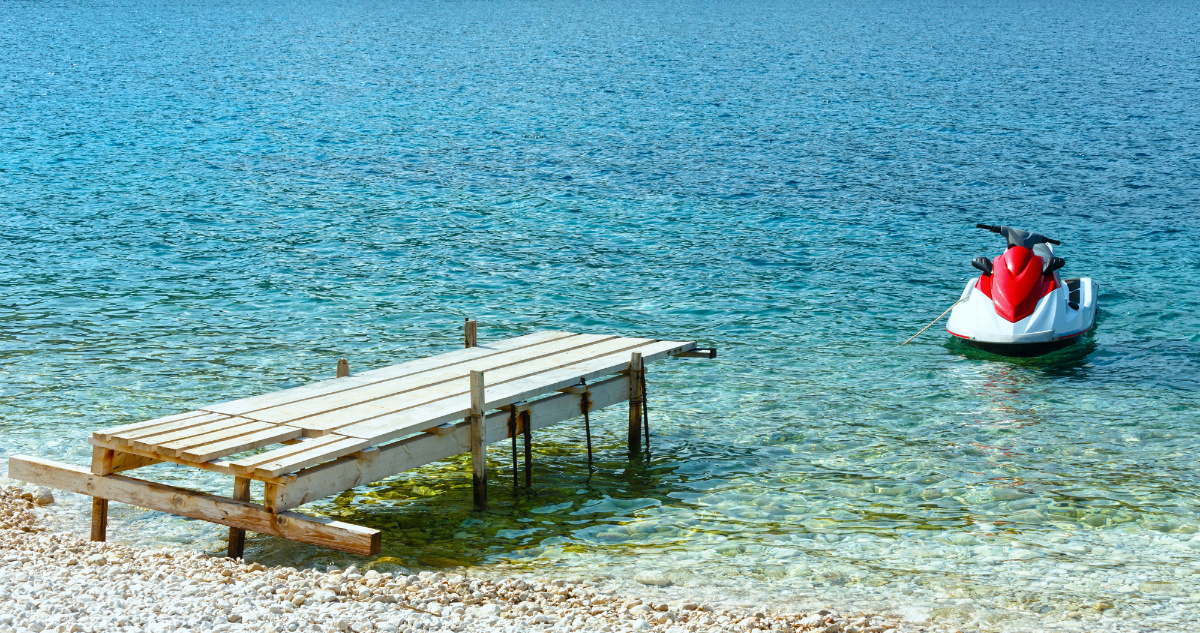
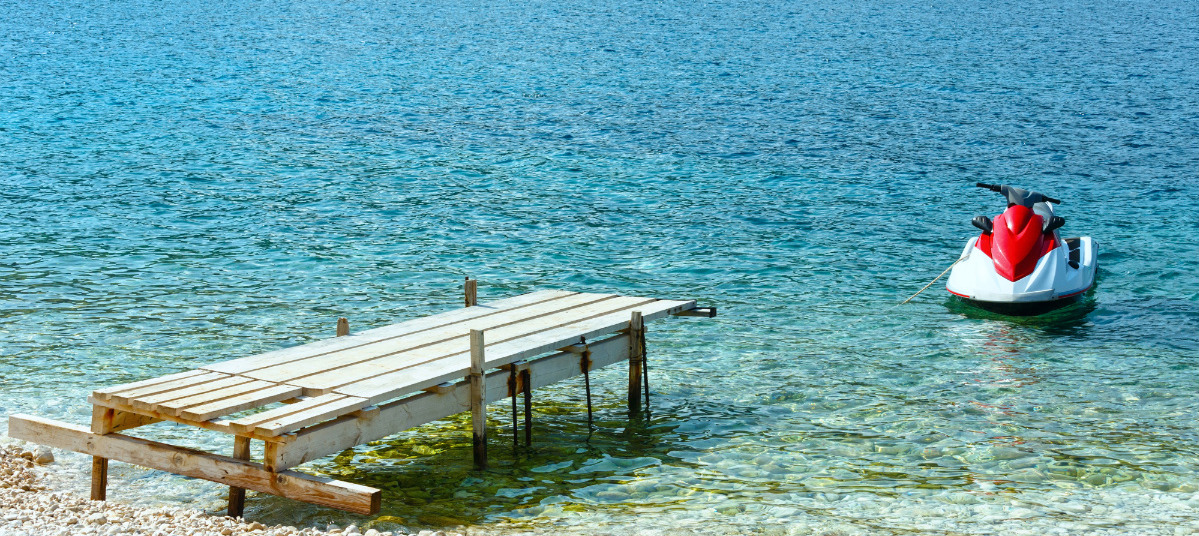
fix home page image in mobile view.

diff --git a/app/assets/stylesheets/responsive.scss b/app/assets/stylesheets/responsive.scss
@@ -2,6 +2,10 @@
   .home-header-text {
     font-size: 28px;
   }
+  .home_page_second_image_text {
+    font-size: 26px;
+    line-height: 25px;
+  }
 }
 
 @media only screen and (max-width: 700px) {
@@ -21,13 +25,21 @@
     }
   }
   .home-header-text-sm, .home_page_second_image_text {
-    font-size: 24px;
-    line-height: 25px;
+    font-size: 30px;
+    line-height: 30px;
   }
 
   .marketplace-lander-content {
     h2.slider-lander-content-title {
       font-size: 36px;
+    }
+  }
+  .home_page_image {
+    .desktop-view {
+      display: none;
+    }
+    .mobile-view {
+      display: block;
     }
   }
 }
@@ -44,6 +56,7 @@
   .home-header-text-sm, .home_page_second_image_text {
     font-size: 22px;
     line-height: 28px;
+    font-weight: bold;
   }
 }
 
@@ -56,11 +69,7 @@
   .home-header-text-sm, .home_page_second_image_text {
     font-size: 19px;
   }
-  .home_page_image {
-    img {
-      height: 300px;
-    }
-  }
+
   .avt-ski-image-text {
     background: rgba(100, 100, 100, 0.5);
   }

diff --git a/app/assets/stylesheets/custom.css.scss b/app/assets/stylesheets/custom.css.scss
@@ -96,7 +96,7 @@ header {
 
 .marketplace-lander-content {
   h2.slider-lander-content-title {
-    font-size: 3em;
+    font-size: 3.5em;
   }
 }
 
@@ -408,5 +408,9 @@ header {
 }
 
 .wrapper.community-wrapper {
-  max-width: 68em;
+  max-width: 97%;
+}
+
+.mobile-view {
+  display: none;
 }
